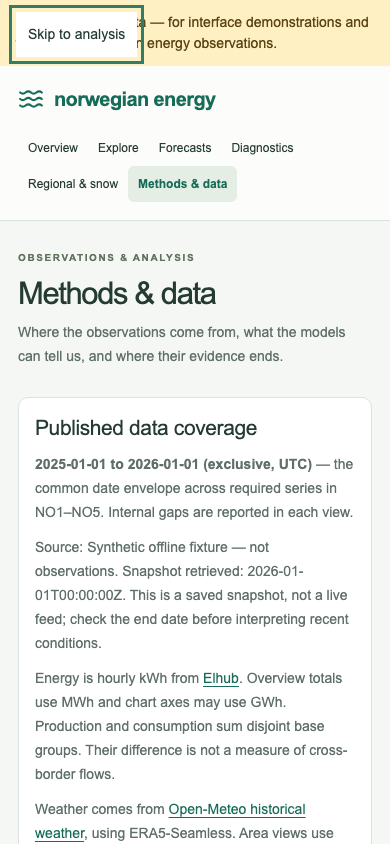
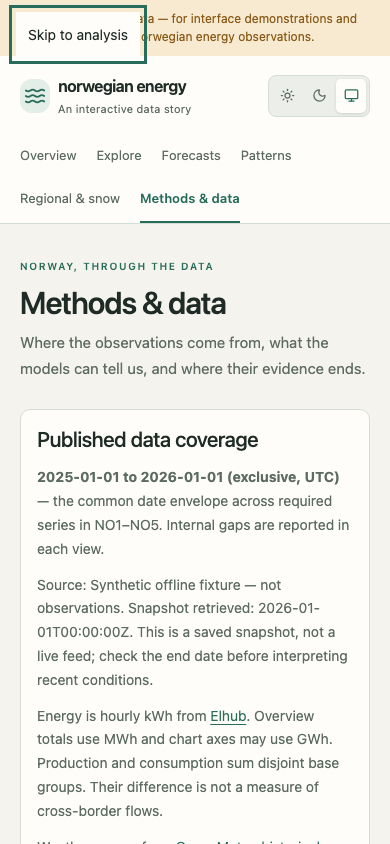
docs: add UI design guidance and refreshed screenshots

diff --git a/docs/UI_DESIGN.md b/docs/UI_DESIGN.md
@@ -1,0 +1,20 @@
+# Portfolio UI refresh
+
+Implemented 2026-09-15. The interface supports two levels of reading: a visitor can understand the energy overview and follow a question; an analyst can reach detailed controls, source values, exports and methodological limits.
+
+## What changed
+
+- One navigation layout across all six dashboard pages, with every destination visible on mobile.
+- Light, dark and system themes. Preference persists across visits; charts, tooltips and PNG backgrounds follow the active theme. Theme changes update chart styles without recreating the chart instance.
+- A plain-language overview introduction, optional short reading guides and three pathways into exploration, forecasting and project methods.
+- Diagnostic choices describe the question first. Model parameters sit under “Method settings”; keyboard arrows move between choices.
+- The explorer starts with daily summaries; explicit hourly/weekly URL selections still work. Line opacity is under “Display options”. The underlying aggregation rules, source values and exports are unchanged.
+- Shared colors, quieter card borders and restrained hover/press feedback. Reduced-motion preference removes those transitions. No animation framework or runtime dependency was added.
+
+## References and selection
+
+Reviewed [Beautiful UI](https://www.beautifului.dev/), [beUI’s catalog](https://beui.dev/llms.txt), [Rare UI](https://www.rareui.com/), [Transitions.dev](https://transitions.dev/) and [shadcn/ui](https://ui.shadcn.com/docs/components). Applied the ideas of clear navigation, compact selection controls, optional detail and restrained state feedback. The existing shadcn-style buttons/cards and native disclosures were sufficient; no third-party component source was copied.
+
+## Verification
+
+TypeScript and production builds pass. Six Chromium journeys cover the existing analytical routes and downloads plus system theme changes, saved preference across navigation/reload, 390px layouts, reading guides, hidden/revealed settings, keyboard method selection and reduced-motion mode. Light/dark desktop and mobile layouts were also inspected in the running preview. The [gallery](screenshots/README.md) uses explicitly synthetic fixture data; the development preview can use the published real snapshots.

diff --git a/README.md b/README.md
@@ -2,7 +2,7 @@
 
 A Norwegian energy and weather analysis project evolving into a **Next.js / React frontend with a Python backend**.
 
-**Status:** The dashboard now runs in Next.js and FastAPI. Overview, exploration, diagnostics, regional/snow and forecasting workflows are implemented. Phase 5 retires Streamlit and adds Methods & Data, an offline fixture, container release setup and browser CI. Public hosting remains a separate, unconfigured release step. Changes and validation are tracked in [Phase 5 validation](docs/PHASE5_VALIDATION.md); see the [synthetic desktop/mobile gallery](docs/screenshots/README.md).
+**Status:** The dashboard now runs in Next.js and FastAPI. Overview, exploration, diagnostics, regional/snow and forecasting workflows are implemented. Phase 5 retires Streamlit and adds Methods & Data, an offline fixture, container release setup and browser CI. The interface includes light/dark themes and optional plain-language guides; see the [UI refresh](docs/UI_DESIGN.md). Public hosting remains a separate, unconfigured release step. Changes and validation are tracked in [Phase 5 validation](docs/PHASE5_VALIDATION.md); see the [synthetic desktop/mobile gallery](docs/screenshots/README.md).
 
 ## Implementation plan
 

diff --git a/docs/screenshots/README.md b/docs/screenshots/README.md
@@ -1,12 +1,18 @@
 # Release candidate screenshots
 
-Captured 2026-09-15 from the local production test build using the deterministic **synthetic offline fixture**. These images demonstrate the interface, not Norwegian observations or measured forecasting performance. They are not screenshots of a public deployment.
+Updated after the [portfolio UI refresh](../UI_DESIGN.md), 2026-09-15. Captured from the local production test build using the deterministic **synthetic offline fixture**. These images demonstrate the interface, not Norwegian observations or measured forecasting performance. They are not screenshots of a public deployment.
 
 ## Desktop overview
 
 NO2 selected, with daily supply/demand, regional comparison and production mix. The browser journey also checks the downloaded CSV against the selected API values.
 
 ![Synthetic NO2 overview at 1280-pixel desktop width](overview-desktop.png)
+
+## Dark overview
+
+A second NO2 date window, shown in dark mode. Theme choice also follows the operating system when System is selected.
+
+![Synthetic NO2 overview in dark mode](overview-dark.png)
 
 ## Mobile methods and keyboard navigation
 
